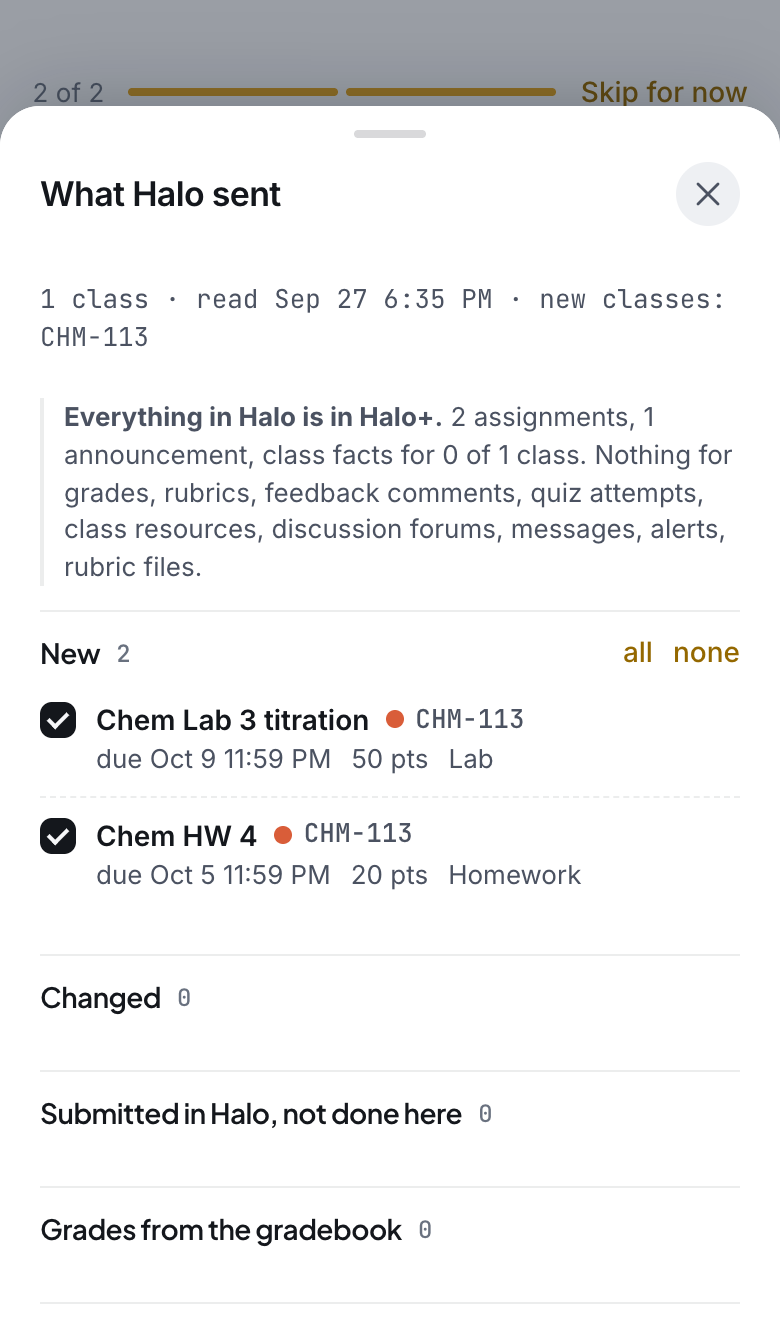
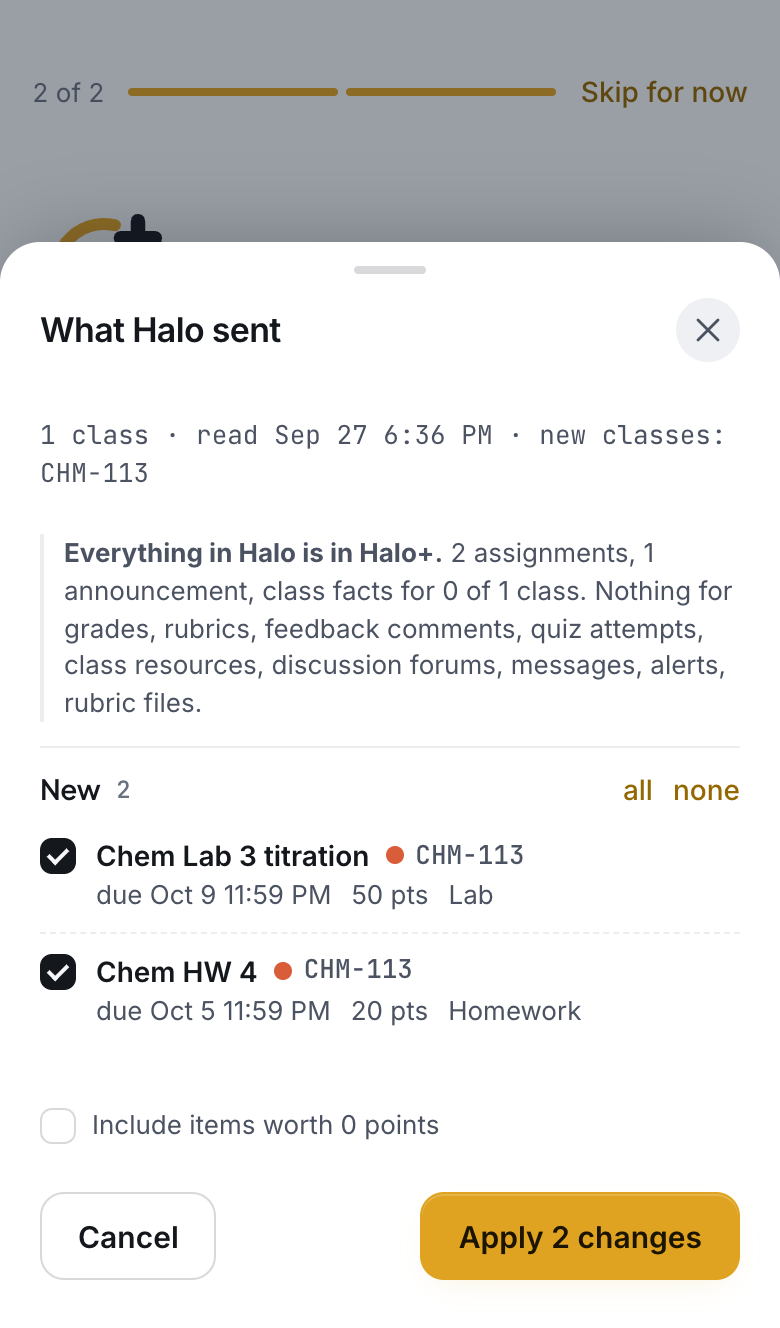
Loop 79: empty sections drop out of the sync sheet

diff --git a/src/views/DiffReview.tsx b/src/views/DiffReview.tsx
@@ -48,6 +48,8 @@ function Section({
   onAll?: () => void;
   onNone?: () => void;
 }) {
+  // An empty section is a row of zeros a first-time student has to read past; the summary line already says it.
+  if (count === 0) return null;
   return (
     <section className="diff-section">
       <h3>

diff --git a/LOOP_LOG.md b/LOOP_LOG.md
@@ -102,3 +102,4 @@ One line per change, newest last. Proposals that need George's approval are mark
 - 2026-09-27 · Loop 75 follow-up · The hero's More menu opened to the left of the button and spilled past the card on a phone; it opens under More to the right on a laptop and takes the row's full width on a phone.
 - 2026-09-27 · Loop 77 · Bug lens: an export whose instructor list held objects instead of strings crashed course normalisation, and with no error boundary anywhere the whole app went blank, onboarding included. Names now survive objects and junk (tested), and two boundaries stand: an inline one around the sync sheet ("Halo sent something this build could not read. Sync again… Dismiss") and a last-resort card with Reload around the whole app, so no render error can blank the screen again. Case added to scripts/baddata.mjs.
 - 2026-09-27 · Loop 78 · Declutter: the sync sheet showed a "Halo says / Read as" timestamp block and then said no reading was needed. It shows only when a reading is in question (a calendar export, bare timestamps, an odd hour).
+- 2026-09-27 · Loop 79 · Declutter: the sync sheet listed every section with a "0" (Changed 0, Submitted 0, Grades 0, No longer in Halo 0, Unchanged 0, Skipped 0) on a first sync; empty sections drop out, the summary line already says nothing else came.
